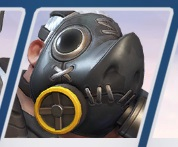
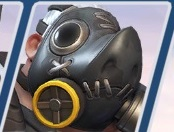
Removed trailing comma from package.json, causing error Re-ordered image references to be alphabetical Finished image editing for width and height consistency

diff --git a/src/app/components/root/root.css b/src/app/components/root/root.css
@@ -5,4 +5,11 @@
 
 .character-tile {
     width: 150px;
+    border-top: 5px solid transparent;
+    border-bottom: 5px solid transparent;
+}
+
+.character-tile:hover {
+    border-top: 5px solid lightblue;
+    border-bottom: 5px solid lightblue;
 }

diff --git a/src/app/components/root/root.controller.js b/src/app/components/root/root.controller.js
@@ -1,8 +1,8 @@
 function CharacterSelectionController() {
     this.characters = [
         "ana",
-        "dva",
         "bastion",
+        "dva",
         "genji",
         "hanzo",
         "junkrat",
